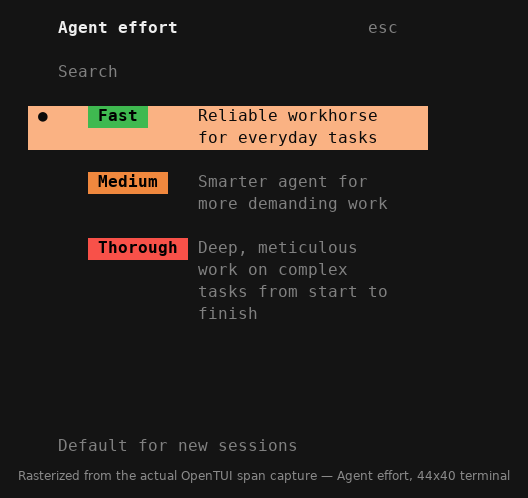
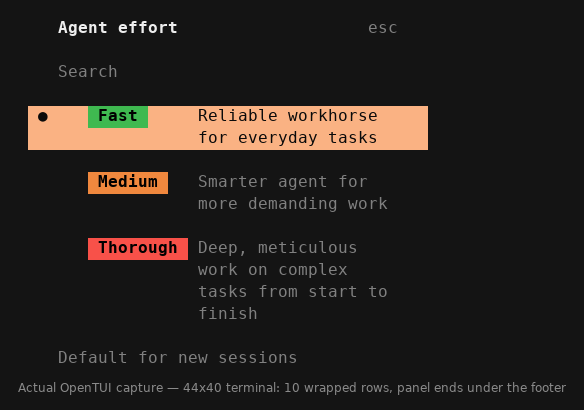
fix(tui): size the Agent effort panel to the rows it paints (Refs #791)
The scrollbox painted exactly the height it was capped to, so the
titleColumn path that returned the terminal cap left the panel with 8
blank rows at 120x40, 12 with one level filtered, and 29 at 120x80. The
height now follows the rows the list actually laid out, measured from
the option renderables themselves, and keeps the terminal cap as the
upper bound. Opt-in: only the option set with a titleColumn measures
itself; every other picker keeps the static row math.

diff --git a/packages/tui/test/cli/tui/dialog-agent-effort.test.tsx b/packages/tui/test/cli/tui/dialog-agent-effort.test.tsx
@@ -405,6 +405,46 @@ function flatText(frame: string) {
     .replace(/\s+/g, " ")
 }
 
+/** The painted panel's rows: its background fill bounds what the dialog occupies. */
+async function panelGeometry(app: Setup, title: string) {
+  const spans = await captureSpans(app)
+  const titleRow = spans.lines.findIndex((line) => line.spans.some((span) => span.text.includes(title)))
+  if (titleRow < 0) throw new Error(`no ${title} title row in the captured frame`)
+  const widest = (line: (typeof spans.lines)[number]) =>
+    line.spans.reduce((acc, span) => (span.width > acc.width ? span : acc), line.spans[0])
+  const panel = hexOf(widest(spans.lines[titleRow]).bg)
+  const rows = spans.lines.flatMap((line, index) =>
+    line.spans.some((span) => hexOf(span.bg) === panel && span.width > 10) ? [index] : [],
+  )
+  if (rows.length === 0) throw new Error("no painted panel rows in the captured frame")
+  return { top: rows[0], bottom: rows[rows.length - 1], height: rows[rows.length - 1] - rows[0] + 1 }
+}
+
+/**
+ * The panel geometry once it stops moving. A wrapping row can only be measured
+ * after it has laid out, so the first frame or two resize the panel; assertions
+ * read it only after three reads agree.
+ */
+async function settledPanel(app: Setup, title: string) {
+  let signature = ""
+  let same = 0
+  for (let attempt = 0; attempt < 60; attempt++) {
+    const geometry = await panelGeometry(app, title)
+    const next = `${geometry.top}:${geometry.bottom}`
+    same = next === signature ? same + 1 : 0
+    signature = next
+    if (same >= 2) return geometry
+    await Bun.sleep(20)
+  }
+  throw new Error("panel geometry never settled")
+}
+
+/** The last row above the footer that still paints text. */
+function lastPaintedAbove(frame: string, footerRow: number) {
+  const lines = frame.split("\n")
+  return lines.slice(0, footerRow).reduce((last, line, index) => (line.trim() ? index : last), -1)
+}
+
 /** The background of the widest span on a row, i.e. the fill the row paints. */
 async function rowFills(app: Setup) {
   const spans = await captureSpans(app)
@@ -1028,9 +1068,12 @@ describe("agent effort selector", () => {
       harness.dialog.replace(() => <DialogAgentEffort />)
       const frame = await frameWhere(
         harness.app,
-        (f) => f.includes("Agent effort") && f.includes("Deep, meticulous"),
+        (f) =>
+          f.includes("Agent effort") &&
+          flatText(f).includes("Deep, meticulous work on complex tasks from start to finish"),
         "dialog rows",
       )
+      await settledPanel(harness.app, "Agent effort")
       const lines = frame.split("\n")
       const rowOf = (needle: string) => lines.findIndex((line) => line.includes(needle))
       // One blank row between options, and no more: the levels stop reading as
@@ -1059,6 +1102,122 @@ describe("agent effort selector", () => {
       expect(markerLine(frame)).toContain("Fast")
     } finally {
       await harness.dispose()
+    }
+  })
+
+
+  // The panel's own chrome: paddingTop 1, title 1, gap 1, search 1, gap 1,
+  // the option rows, gap 1, footer 1, paddingBottom 1.
+  const CHROME = 8
+
+  test("sizes the dialog to the rows it paints, not to the terminal cap", async () => {
+    // The three levels paint 6 rows at a normal width (one blank row between
+    // them, Thorough wrapping to two lines) and 10 rows at a narrow one. The
+    // panel must follow those rows, so the same content is the same height in
+    // a 40-row terminal and an 80-row one, and the footer stays right under
+    // the last row instead of at the bottom of an oversized box.
+    for (const view of [
+      { name: "normal", width: 120, height: 40, rows: 6 },
+      { name: "tall", width: 120, height: 80, rows: 6 },
+      { name: "narrow", width: 44, height: 40, rows: 10 },
+    ]) {
+      const harness = await mountEffort({
+        route: { type: "home" },
+        model: "test-provider/variant-model",
+        children: () => null,
+        width: view.width,
+        height: view.height,
+      })
+      try {
+        harness.dialog.replace(() => <DialogAgentEffort />)
+        const frame = await frameWhere(
+          harness.app,
+          (f) =>
+            flatText(f).includes("Deep, meticulous work on complex tasks from start to finish") &&
+            f.includes("Default for new sessions"),
+          view.name,
+        )
+        const panel = await settledPanel(harness.app, "Agent effort")
+        const settled = await captureFrame(harness.app)
+        const lines = settled.split("\n")
+        const footerRow = lines.findIndex((line) => line.includes("Default for new sessions"))
+
+        expect(panel.height).toBe(view.rows + CHROME)
+        // The footer is the panel's last content row, with the panel's usual
+        // bottom padding under it.
+        expect(footerRow).toBe(panel.bottom - 1)
+        // Exactly one blank row separates the last painted option row from the
+        // footer: the dialog's normal gap, not dead space.
+        expect(lastPaintedAbove(frame, footerRow)).toBe(footerRow - 2)
+        expect(lines[footerRow - 1].trim()).toBe("")
+      } finally {
+        await harness.dispose()
+      }
+    }
+  })
+
+  test("keeps the panel compact around a single filtered level", async () => {
+    const harness = await mountEffort({
+      route: { type: "home" },
+      model: "test-provider/variant-model",
+      children: () => null,
+      width: 120,
+      height: 40,
+    })
+    try {
+      harness.dialog.replace(() => <DialogAgentEffort />)
+      await frameWhere(harness.app, (f) => f.includes("Agent effort"), "dialog title")
+      await harness.app.mockInput.typeText("tho")
+      await frameWhere(harness.app, (f) => f.includes("Thorough") && !f.includes("Medium"), "filtered")
+      const panel = await settledPanel(harness.app, "Agent effort")
+      const frame = await captureFrame(harness.app)
+      const lines = frame.split("\n")
+      const footerRow = lines.findIndex((line) => line.includes("Default for new sessions"))
+      // Only Thorough is left, and its copy wraps to two rows.
+      expect(panel.height).toBe(2 + CHROME)
+      expect(footerRow).toBe(panel.bottom - 1)
+      expect(lastPaintedAbove(frame, footerRow)).toBe(footerRow - 2)
+      expect(lines[footerRow - 1].trim()).toBe("")
+    } finally {
+      await harness.dispose()
+    }
+  })
+
+  test("keeps the footer directly under the list in a short viewport", async () => {
+    for (const view of [
+      // 26 rows leaves a 7-row cap, one row more than the 6 rows the levels
+      // need: the panel must still stop at the content.
+      { name: "short with room", width: 120, height: 26, rows: 6 },
+      // 20 rows leaves a 4-row cap, so the list scrolls and the footer sits
+      // under the capped viewport instead of a taller one.
+      { name: "short capped", width: 44, height: 20, rows: 4 },
+    ]) {
+      const harness = await mountEffort({
+        route: { type: "home" },
+        model: "test-provider/variant-model",
+        children: () => null,
+        width: view.width,
+        height: view.height,
+      })
+      try {
+        harness.dialog.replace(() => <DialogAgentEffort />)
+        await frameWhere(harness.app, (f) => f.includes("Default for new sessions"), view.name)
+        const panel = await settledPanel(harness.app, "Agent effort")
+        const frame = await captureFrame(harness.app)
+        const lines = frame.split("\n")
+        const footerRow = lines.findIndex((line) => line.includes("Default for new sessions"))
+        expect(panel.height).toBe(view.rows + CHROME)
+        expect(footerRow).toBe(panel.bottom - 1)
+        expect(lastPaintedAbove(frame, footerRow)).toBe(footerRow - 2)
+        expect(lines[footerRow - 1].trim()).toBe("")
+        // Nothing paints below the footer inside the panel.
+        expect(lines.slice(footerRow + 1, panel.bottom + 1).every((line) => line.trim() === "")).toBe(true)
+        // The selected level and its wrap stay on screen.
+        expect(markerLine(frame)).toContain("Fast")
+        expect(frame).toContain("for everyday tasks")
+      } finally {
+        await harness.dispose()
+      }
     }
   })
 
@@ -1254,12 +1413,15 @@ describe("agent effort selector", () => {
   // writes the sanitized span dumps that the committed PNGs are rendered from.
   // It renders through the production dialog stack, like app.tsx does, so the
   // frames carry the real panel width.
-  test.skipIf(!process.env.TUI_CAPTURE_DIR)("captures the normal and narrow layout frames", async () => {
+  test.skipIf(!process.env.TUI_CAPTURE_DIR)("captures the normal, narrow and short layout frames", async () => {
     const dir = process.env.TUI_CAPTURE_DIR
     if (!dir) return
     for (const view of [
-      { name: "normal", width: 120, height: 40 },
-      { name: "narrow", width: 44, height: 40 },
+      { name: "normal", width: 120, height: 40, downs: 0 },
+      { name: "narrow", width: 44, height: 40, downs: 0 },
+      // A short viewport caps the list; the cursor walks to the wrapping level
+      // so the frame also shows the wrapped selection held on screen.
+      { name: "short", width: 44, height: 26, downs: 2 },
     ]) {
       const harness = await mountEffort({
         route: { type: "home" },
@@ -1270,7 +1432,14 @@ describe("agent effort selector", () => {
       })
       try {
         harness.dialog.replace(() => <DialogAgentEffort />)
-        await frameWhere(harness.app, (f) => f.includes("Agent effort") && f.includes("Thorough"), view.name)
+        await frameWhere(harness.app, (f) => f.includes("Agent effort"), view.name)
+        for (let press = 0; press < view.downs; press++) harness.app.mockInput.pressArrow("down")
+        await frameWhere(
+          harness.app,
+          (f) => flatText(f).includes("start to finish") && f.includes("Default for new sessions"),
+          view.name,
+        )
+        await settledPanel(harness.app, "Agent effort")
         const spans = await captureSpans(harness.app)
         const lines = spans.lines.map((line) =>
           line.spans.map((span) => ({
@@ -1281,11 +1450,16 @@ describe("agent effort selector", () => {
           })),
         )
         await mkdir(dir, { recursive: true })
-        await Bun.write(path.join(dir, `agent-effort-${view.name}.json`), JSON.stringify({ cols: spans.cols, rows: spans.rows, lines }))
+        await Bun.write(
+          path.join(dir, `agent-effort-${view.name}.json`),
+          JSON.stringify({ cols: spans.cols, rows: spans.rows, lines }),
+        )
         console.log(`\n=== ${view.name} (${spans.cols}x${spans.rows}) ===\n${await captureFrame(harness.app)}`)
       } finally {
         await harness.dispose()
       }
     }
   })
+
+
 })

diff --git a/packages/tui/src/ui/dialog-select.tsx b/packages/tui/src/ui/dialog-select.tsx
@@ -229,14 +229,17 @@ export function DialogSelect<T>(props: DialogSelectProps<T>) {
   })
 
   const dimensions = useTerminalDimensions()
+  // A title column turns descriptions into wrapping text, so how many lines a
+  // row paints is only known after layout. The scrollbox paints exactly the
+  // height it is allowed, so this measures the rows it actually laid out
+  // instead of assuming one line per option: a static count would either clip
+  // wrapped lines or leave the panel with empty rows under the last option.
+  const [laidOutRows, setLaidOutRows] = createSignal(0)
+  const wrapping = createMemo(() => flat().some((option) => option.titleColumn !== undefined))
   const height = createMemo(() => {
-    const cap = Math.floor(dimensions().height / 2) - 6
-    // A title column turns descriptions into wrapping text, so how many lines a
-    // row paints is only known after layout: capping by `rows()` would clip the
-    // wrapped lines out of the scrollbox. The terminal cap still bounds the
-    // box, and the scrollbox keeps sizing itself to its content below it.
-    if (flat().some((option) => option.titleColumn !== undefined)) return cap
-    return Math.min(rows(), cap)
+    const cap = Math.max(0, Math.floor(dimensions().height / 2) - 6)
+    if (!wrapping()) return Math.min(rows(), cap)
+    return Math.max(1, Math.min(laidOutRows() || rows(), cap))
   })
 
   const selected = createMemo(() => flat()[store.selected])
@@ -527,6 +530,39 @@ export function DialogSelect<T>(props: DialogSelectProps<T>) {
   })
 
   let scroll: ScrollBoxRenderable | undefined
+  // The painted rows are the only honest source for a wrapped row's height, so
+  // the scrollbox is sized from the extent they actually laid out to. A layout
+  // can settle over more than one pass, so this re-reads until two passes agree
+  // and then stops.
+  function measureLaidOutRows() {
+    const children = scroll?.getChildren()
+    if (!children || children.length === 0) return
+    const last = children[children.length - 1]
+    const measured = last.y + last.height - children[0].y
+    if (measured > 0) setLaidOutRows(measured)
+  }
+  let measureGeneration = 0
+  createEffect(() => {
+    if (!wrapping()) return
+    grouped()
+    dimensions()
+    selected()
+    const generation = ++measureGeneration
+    let previous = -1
+    let passes = 0
+    const settle = () => {
+      if (generation !== measureGeneration) return
+      measureLaidOutRows()
+      const measured = laidOutRows()
+      if (measured === previous || ++passes > 3) return
+      previous = measured
+      renderer.requestAnimationFrame(settle)
+    }
+    renderer.requestAnimationFrame(settle)
+  })
+  onCleanup(() => {
+    measureGeneration++
+  })
   const ref: DialogSelectRef<T> = {
     get filter() {
       return store.filter
